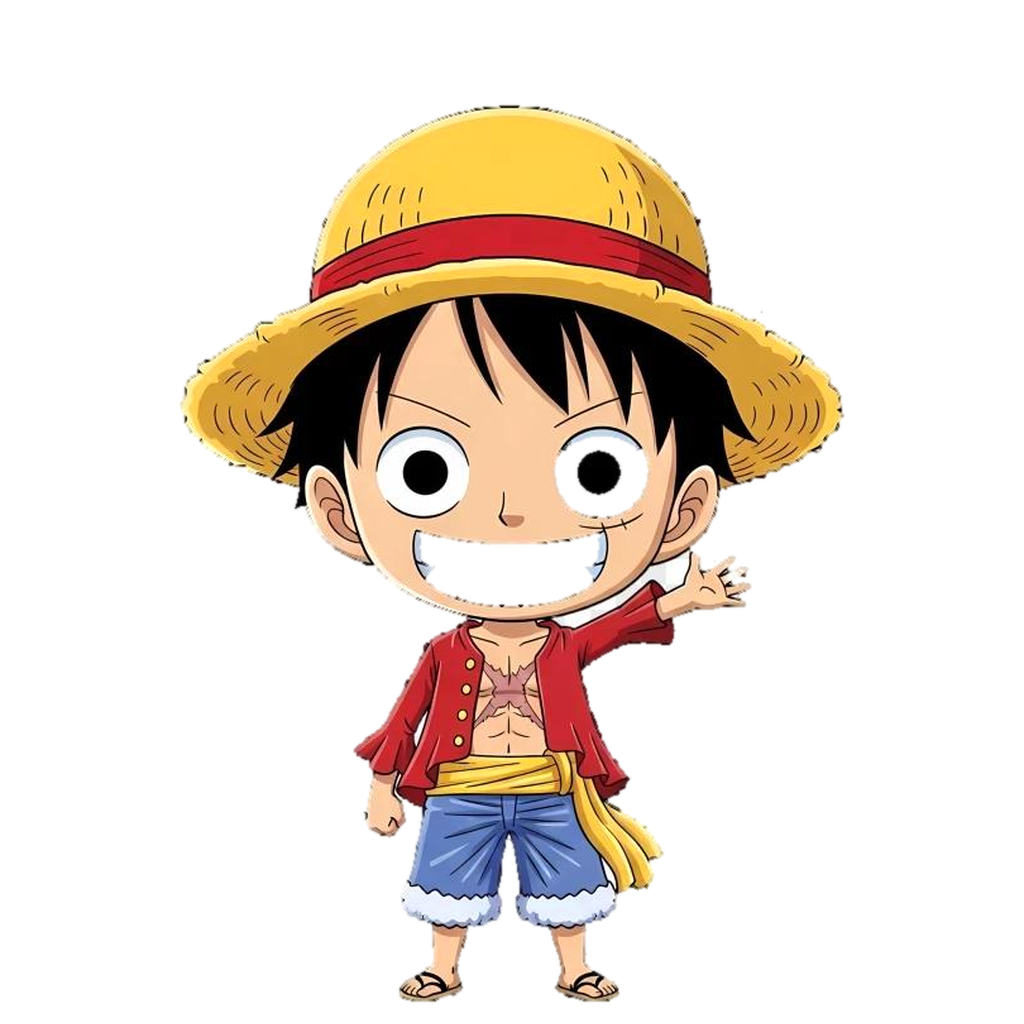
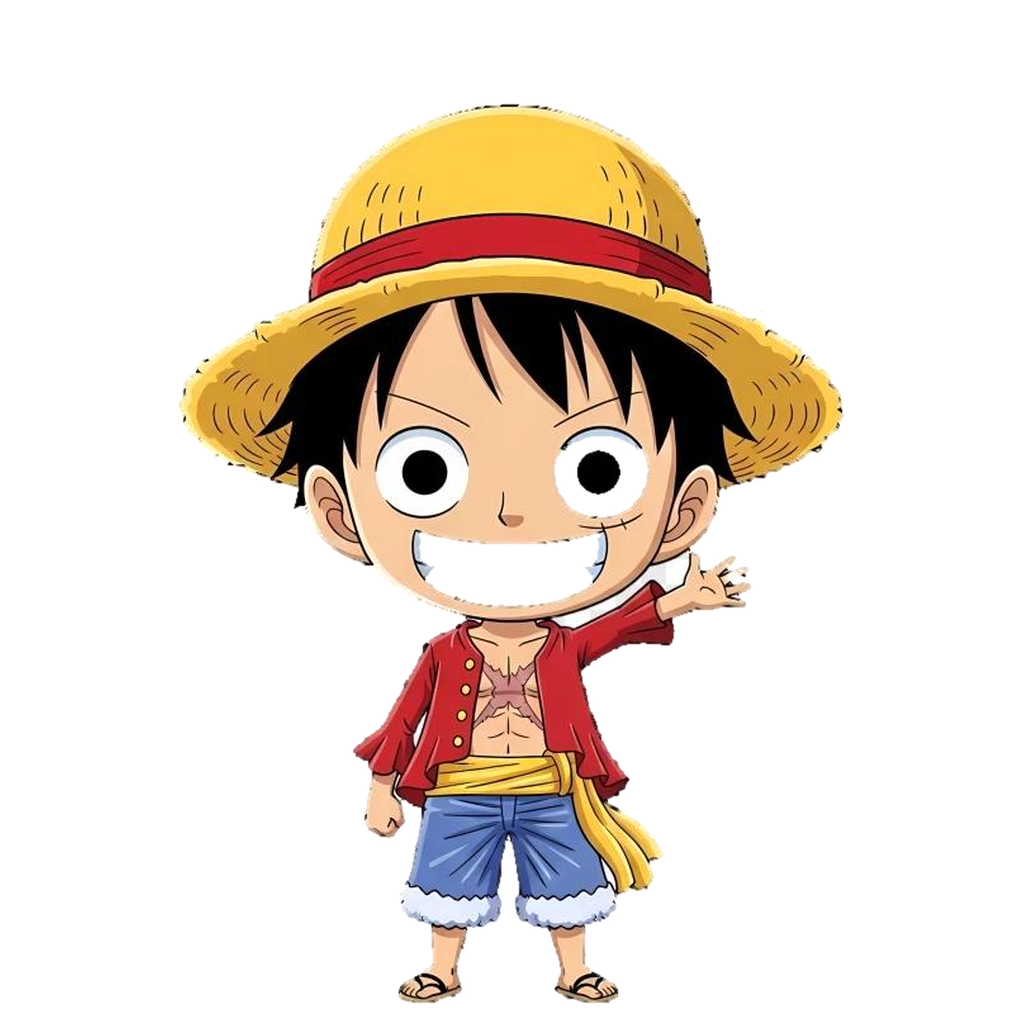
fix(packs): 去掉轮廓外的白光晕与浅色描边
三处漏点叠起来才是深色界面上那圈白雾：

1. alpha 淡尾巴：高斯模糊后轮廓外留 2~3px 的 alpha 5~30 像素。新增 tighten_alpha()，
   alpha<26 归零、>235 拉满，只留 1px 抗锯齿；外圈像素数量从 6000~12000 降到 1500~3000。
2. 不透明的最外圈是脏的：抗锯齿/JPEG 把描边和背景混成 (255,239,214) 这类浅色，
   抠图后仍是 alpha=255，bleed 管不到。新增 decontaminate()，用往里 3px 的颜色覆盖这圈。
3. 取色用邻居平均会混出中间亮度，浅色皮肤挨着深描边时平均色仍偏亮。改成最近实心像素取色。

衡量方式也换了：白边"占比"在 1px 边缘带上噪声太大，改用「轮廓圈亮度 − 内侧 4~6px 亮度」，
负值/接近 0 = 无浅色描边。目前全部 28 帧都 ≤ +3（仅 luffy warning +3，且它没有原图可重抠，
只能收 1px 边再补色）。

diff --git a/tools/prep-art.py b/tools/prep-art.py
@@ -34,6 +34,9 @@ MAXW = 0.94            # 角色宽度上限（带鹿角/大翅膀的角色靠这
 BOTTOM = 0.02          # 底部留白比例
 
 BLEED = 10             # 边缘带颜色扩散半径（源图像素）；要 > 缩小时的滤波支撑半径
+TAIL = 26              # alpha 低于此值直接归零：高斯模糊会留 2~3px 的淡尾巴，
+                       # 浅色角色旁边这条尾巴就是深色界面上的"白光晕"
+AA_KNEE = 235          # alpha 高于此值直接拉满，只留 1px 抗锯齿过渡
 
 # 包 id → 中文名（pack.json 的 name 字段）
 PACK_NAMES = {
@@ -116,6 +119,67 @@ def edge_white_ratio(im):
     return (white / tot * 100.0) if tot else 0.0, tot
 
 
+def tighten_alpha(a):
+    """砍掉 alpha 的淡尾巴，把 2~3px 的柔和过渡压成 1px 抗锯齿。
+
+    高斯模糊保证边缘不锯齿，但也会在轮廓外留一圈 alpha 5~30 的像素。
+    深色界面上这圈像素的亮度贡献是 (角色色 × alpha)，浅色角色旁边就是肉眼可见的白光晕，
+    所以低 alpha 一律归零、高 alpha 直接拉满，只保留中间 1px 的过渡。
+    """
+    span = float(AA_KNEE - TAIL)
+    return a.point(lambda v: 0 if v < TAIL else (255 if v >= AA_KNEE else int(round((v - TAIL) * 255.0 / span))))
+
+
+def decontaminate(im, reach=2):
+    """把轮廓最外 1~2px 的"被白底污染的颜色"换成内侧的真实颜色。
+
+    bleed_colors 只管 alpha < 255 的像素，但**完全不透明**的最外圈同样脏：
+    原图的抗锯齿/JPEG 压缩会把描边和背景混成 (255,239,214) 这种浅色，
+    抠图后这圈仍是 alpha=255，于是深色底上就显出一条浅色描边线。
+    做法：找出「不透明但离透明区 ≤ reach px」的像素，用再往内（≥3px）的颜色覆盖。
+    只覆盖颜色、不动 alpha，所以轮廓形状一点不变。
+    """
+    w, h = im.size
+    alpha = im.split()[3]
+    near = alpha.point(lambda v: 255 if v == 0 else 0)
+    near = near.filter(ImageFilter.MaxFilter(2 * reach + 1))           # 透明区外扩 reach
+    solid = alpha.point(lambda v: 255 if v >= 250 else 0)
+    ring = ImageChops.multiply(solid, near)                            # 不透明但贴着透明区
+    rb = ring.tobytes()
+
+    px = im.load()
+    dirs = ((1, 0), (-1, 0), (0, 1), (0, -1), (1, 1), (1, -1), (-1, 1), (-1, -1))
+    dirt = [(i % w, i // w) for i in range(w * h) if rb[i]]
+    if not dirt:
+        return im
+    dirt_set = set(dirt)
+    # 队列种子：紧贴污染圈、且自己没被污染的不透明像素（颜色可信）
+    from collections import deque
+    q = deque()
+    filled = set()
+    for (x, y) in dirt:
+        for dx, dy in dirs:
+            nx, ny = x + dx, y + dy
+            if not (0 <= nx < w and 0 <= ny < h):
+                continue
+            if (nx, ny) in dirt_set:
+                continue
+            r, g, b, a = px[nx, ny]
+            if a >= 250:
+                q.append(((x, y), (r, g, b)))
+                filled.add((x, y))
+                break
+    while q:
+        (x, y), c = q.popleft()
+        px[x, y] = (c[0], c[1], c[2], px[x, y][3])
+        for dx, dy in dirs:
+            nx, ny = x + dx, y + dy
+            if 0 <= nx < w and 0 <= ny < h and (nx, ny) in dirt_set and (nx, ny) not in filled:
+                filled.add((nx, ny))
+                q.append(((nx, ny), c))
+    return im
+
+
 def bleed_colors(im, radius=BLEED):
     """把实心区的颜色向外扩散到 alpha 边缘带（defringe）。
 
@@ -124,13 +188,16 @@ def bleed_colors(im, radius=BLEED):
     摊到描边外，深色背景上就是一圈亮边。
     这里改成"用最近的角色色覆盖边缘带"，透明区也带上角色色，
     于是无论是直接显示还是缩放，边缘混出来的都是角色色而不是白色。
+
+    取色用 **最近实心像素的颜色**（先到先得），不做邻居平均 —— 平均会把
+    相邻的两种颜色混出中间亮度，浅色皮肤挨着深色描边时，平均色仍然偏亮，
+    深色底上依旧能看到一圈淡光。
     """
     w, h = im.size
     alpha = im.split()[3]
     ab = alpha.tobytes()
     px = im.load()
     known = bytearray(w * h)
-    frontier = []
     dirs = ((1, 0), (-1, 0), (0, 1), (0, -1), (1, 1), (1, -1), (-1, 1), (-1, -1))
     # 种子只取"贴着边缘的实心像素"，避免把整块实心区都塞进队列
     for y in range(h):
@@ -138,6 +205,7 @@ def bleed_colors(im, radius=BLEED):
         for x in range(w):
             if ab[base + x] >= 250:
                 known[base + x] = 1
+    frontier = []
     for y in range(h):
         base = y * w
         for x in range(w):
@@ -154,29 +222,18 @@ def bleed_colors(im, radius=BLEED):
     for _ in range(radius):
         cand = {}
         for (x, y) in frontier:
+            c = px[x, y]
             for dx, dy in dirs:
                 nx, ny = x + dx, y + dy
                 if 0 <= nx < w and 0 <= ny < h and not known[ny * w + nx]:
-                    cand[(nx, ny)] = 1
+                    cand.setdefault((nx, ny), c)
         if not cand:
             break
-        cand = list(cand)
-        # 取色只认「上一层及更早」的像素，避免同层之间互相传染还没上色的白
-        for (x, y) in cand:
-            sr = sg = sb = n = 0
-            for dx, dy in dirs:
-                nx, ny = x + dx, y + dy
-                if 0 <= nx < w and 0 <= ny < h and known[ny * w + nx]:
-                    r, g, b, _a = px[nx, ny]
-                    sr += r
-                    sg += g
-                    sb += b
-                    n += 1
-            if n:
-                px[x, y] = (sr // n, sg // n, sb // n, px[x, y][3])
+        for (x, y), c in cand.items():
+            px[x, y] = (c[0], c[1], c[2], px[x, y][3])
         for (x, y) in cand:
             known[y * w + x] = 1
-        frontier = cand
+        frontier = list(cand.keys())
     return im
 
 
@@ -278,18 +335,19 @@ def matte(path, clear_rect=None):
     alpha = alpha.filter(ImageFilter.MinFilter(3))       # 收 1px，去掉描边外侧的晕边
     alpha = alpha.point(lambda v: 0 if v < 8 else 255)   # 灭掉残留的极淡噪点
     alpha = alpha.filter(ImageFilter.GaussianBlur(0.7))  # 只留 1px 抗锯齿过渡
+    alpha = tighten_alpha(alpha)                         # 砍掉模糊留下的淡尾巴（白晕来源）
 
     out = im.convert('RGBA')
     out.putalpha(alpha)
-    return bleed_colors(out)
+    return bleed_colors(decontaminate(out))
 
 
 def load_precut(path):
     """已经抠好的图：把 253/254 这类"接近满"的 alpha 拉满，再补白边。"""
     im = Image.open(path).convert('RGBA')
     a = im.split()[-1].point(lambda v: 255 if v >= 200 else (0 if v <= 8 else v))
-    im.putalpha(a)
-    return bleed_colors(im)
+    im.putalpha(tighten_alpha(a))
+    return bleed_colors(decontaminate(im))
 
 
 def normalize(im):
@@ -411,15 +469,39 @@ def scaffold(pack, out_dir):
         fh.write('\n')
 
 
+def halo_stats(im, band_max=80, bright=200):
+    """轮廓外那圈半透明像素的亮度 —— 深色界面上"白光晕"的量化指标。
+
+    白边（近白像素占比）测的是"颜色有多白"，光晕测的是"低 alpha 的亮像素有多少"：
+    后者才是深色底上肉眼看到的那圈雾。alpha ≤ band_max 的像素里，
+    亮度 > bright 的数量越多、平均亮度越高，光晕越明显。
+    """
+    px = im.load()
+    w, h = im.size
+    band = glow = 0
+    tot = 0.0
+    for y in range(0, h, 2):
+        for x in range(0, w, 2):
+            r, g, b, a = px[x, y]
+            if 0 < a <= band_max:
+                band += 1
+                v = (r + g + b) / 3.0
+                tot += v
+                if v > bright:
+                    glow += 1
+    return band, glow, (tot / band if band else 0.0)
+
+
 def check():
-    """只统计现有帧的白边残留，不改任何文件。"""
+    """只统计现有帧的白边残留与光晕，不改任何文件。"""
     import glob
-    print(f"{'帧':<28}{'白边占比':>10}{'边缘样本':>10}")
-    print('-' * 50)
+    print(f"{'帧':<28}{'白边占比':>10}{'外圈像素':>10}{'外圈亮像素':>12}{'外圈均亮':>10}")
+    print('-' * 72)
     for f in sorted(glob.glob(os.path.join(ROOT, 'assets', 'packs', '*', '*.png'))):
         im = Image.open(f).convert('RGBA')
         ratio, tot = edge_white_ratio(im)
-        print(f"{os.path.relpath(f, ROOT):<28}{ratio:>9.1f}%{tot:>10}")
+        band, glow, mean = halo_stats(im)
+        print(f"{os.path.relpath(f, ROOT):<28}{ratio:>9.1f}%{band:>10}{glow:>12}{mean:>10.1f}")
 
 
 def main():
@@ -454,10 +536,13 @@ def main():
                 continue
             im = Image.open(p).convert('RGBA')
             before[(pack, name)] = edge_white_ratio(im)[0]
-            by_pack.setdefault(pack, []).append((name, bleed_colors(im), None, '(原地)', False))
+            # 这两帧的浅色圈是旧管线留下的、比 reach 还宽，先整体收 1px 把脏边切掉
+            a = im.split()[3].filter(ImageFilter.MinFilter(3))
+            im.putalpha(tighten_alpha(a))
+            by_pack.setdefault(pack, []).append((name, bleed_colors(decontaminate(im, reach=3)), None, '(原地)', False))
 
-    print(f"{'包':<9}{'源文件':<20}{'输出':<12}{'缩放后':<12}{'占高':<8}{'白边(前→后)'}")
-    print('-' * 96)
+    print(f"{'包':<9}{'源文件':<20}{'输出':<12}{'缩放后':<12}{'占高':<8}{'白边(前→后)':<16}{'外圈亮像素':<10}")
+    print('-' * 110)
     for pack, items in by_pack.items():
         if len(items) > 1:
             print(f'  [{pack}] 统一曝光')
@@ -469,11 +554,13 @@ def main():
             im.save(os.path.join(out_dir, dst), 'PNG', optimize=True)
             bb = im.split()[-1].getbbox()
             after = edge_white_ratio(im)[0]
+            _band, glow, glow_mean = halo_stats(im)
             prev = before.get((pack, dst))
             delta = f'{prev:.1f}%→{after:.1f}%' if prev is not None else f'—→{after:.1f}%'
             print(f"{pack:<9}{src:<20}{dst:<12}"
                   f"{str(bb[2]-bb[0])+'x'+str(bb[3]-bb[1]):<12}"
-                  f"{(bb[3]-bb[1])/CANVAS*100:>5.1f}%  {delta}")
+                  f"{(bb[3]-bb[1])/CANVAS*100:>5.1f}%  {delta:<16}"
+                  f"{glow:>4} (均亮 {glow_mean:.0f})")
         scaffold(pack, out_dir)
 
 

diff --git a/README.md b/README.md
@@ -124,7 +124,10 @@ assets/packs/luffy/
 **素材流水线**：根目录那些命名不统一的原图（`待机娜美.png` / `被点击娜美.png` / `等待回复娜美.png`、`索隆待机.png`…）不会被代码直接引用，统一由 `tools/prep-art.py` 转成 `assets/packs/<id>/<state>.png`：
 
 1. 白底 / 棋盘格底 ⇒ alpha（洪水填充；被角色围住的背景空隙只在「均值≥249、暗像素<8%、标准差≤7、面积≥1200」四条同时成立时才删 —— 眼白、牙齿、白衣褶皱、云朵暗部这些带柔和阴影的白都会保留），原图带干净 alpha 的跳过抠图；
-2. **去白边**：把角色内部颜色逐层扩散到 alpha 边缘带，描边外侧不再残留"白底混色"，深色背景上不会出现亮圈；
+2. **去白边**（三步，缺一步都会在深色界面上留一圈白光）：
+   - 去污染：轮廓最外 1~2px 的**不透明**像素其实已被白底污染成 `(255,239,214)` 这种浅色，用再往内 3px 的颜色覆盖；
+   - 颜色外扩：把角色色逐层扩散到 alpha 边缘带，透明区也带角色色，缩放混色时不会混出白；
+   - 掐尾巴：高斯模糊留下的 2~3px 低 alpha 过渡（alpha<26）直接归零，只保留 1px 抗锯齿；
 3. 归一 1024×1024：角色高 88%、底边距 2%、水平居中，宽度超 94% 时以宽度为准；
 4. 同包各帧统一曝光（只作用在有色像素上，白牙高光不动）；
 5. 缺 `pack.json` / `emblem.svg` / `sfx/` 的新包自动补齐。
